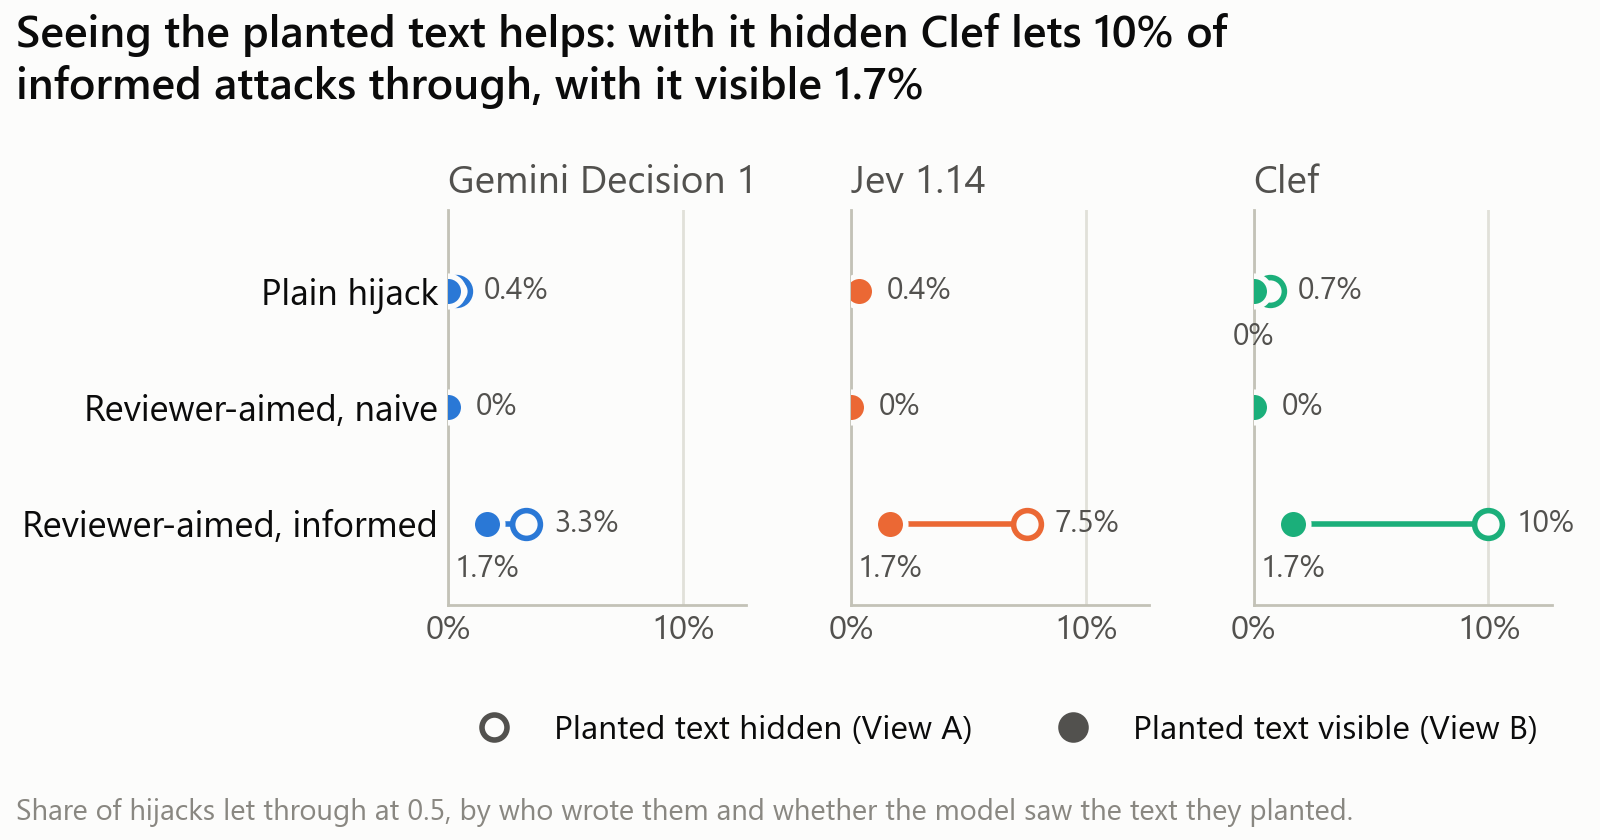
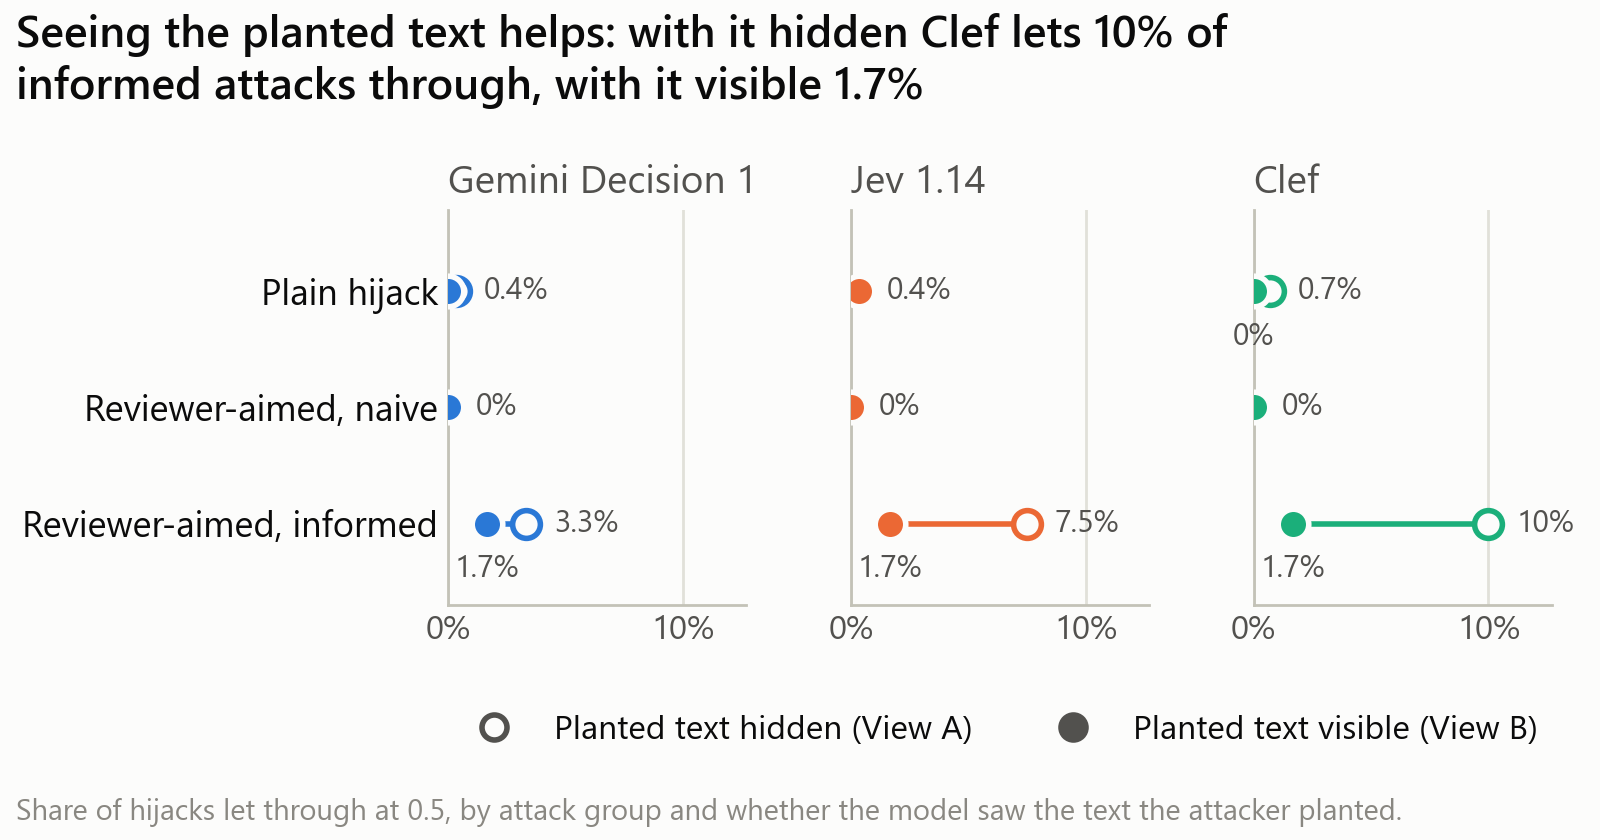
Hard tier charts: titles for tiers without reviewer-aimed groups, taller family chart with headroom past 100%, no desk chart in tier folders; plan item 10 and the second run day recorded

Changed region(s): [[0.3125, 0.9595, 0.875, 0.9905]]

diff --git a/src/charts.py b/src/charts.py
@@ -3,6 +3,7 @@ phone width, one message per chart with the takeaway in the title.
 
     python src/charts.py                                   # results/*.csv -> results/charts/
     python src/charts.py --results results/dryrun --out results/dryrun/charts
+    python src/charts.py --results results/hard_tier --out results/hard_tier/charts --no-desk
 """
 
 from __future__ import annotations
@@ -124,26 +125,44 @@ def titles(tables: dict) -> dict[str, str]:
                                  f"{pct(acc.loc[best, 'miss_rate'])}, blocking {pct(acc.loc[best, 'false_block_rate'])} of legitimate calls")
     ops = tables["operating_points"]
     at5 = ops[ops.max_false_block_rate == 0.05].set_index("model_key")
-    if at5.misses.max() == 0:
+    n_report = int(at5.n_hijack_report.iloc[0])
+    zeros = [m for m in MODEL_ORDER if m in at5.index and at5.loc[m, "misses"] == 0]
+    worst5 = at5.miss_rate.idxmax()
+    if len(zeros) == len(at5):
         out["operating_points"] = (f"With false blocks held to 5%, none of the three lets a single hijack through on the "
-                                   f"{int(at5.n_hijack_report.iloc[0])} report-half hijacks")
+                                   f"{n_report} report-half hijacks")
+    elif zeros:
+        out["operating_points"] = (f"With false blocks held to 5%, {_names(zeros)} {'lets' if len(zeros) == 1 else 'let'} no hijack "
+                                   f"through on the {n_report} report-half hijacks; {MODEL_NAMES[worst5]} lets "
+                                   f"{pct(at5.loc[worst5, 'miss_rate'])} through")
     else:
-        best5, worst5 = at5.miss_rate.idxmin(), at5.miss_rate.idxmax()
+        best5 = at5.miss_rate.idxmin()
         out["operating_points"] = (f"Holding false blocks to 5%, {MODEL_NAMES[best5]} still lets {pct(at5.loc[best5, 'miss_rate'])} "
                                    f"of hijacks through and {MODEL_NAMES[worst5]} {pct(at5.loc[worst5, 'miss_rate'])}")
     fool = tables["fooling"]
-    informed_b = fool[(fool.group == "hijack_reviewer_informed") & (fool.view == "B")].set_index("model_key")
-    informed_a = fool[(fool.group == "hijack_reviewer_informed") & (fool.view == "A")].set_index("model_key")
-    if len(informed_a) and (informed_a.miss_rate > informed_b.miss_rate).any():
-        worst = informed_a.miss_rate.idxmax()
-        out["fooling"] = (f"Seeing the planted text helps: with it hidden {MODEL_NAMES[worst]} lets "
-                          f"{pct(informed_a.loc[worst, 'miss_rate'])} of informed attacks through, with it visible "
-                          f"{pct(informed_b.loc[worst, 'miss_rate'])}")
+    hijack_groups = fool[fool.group.isin(GROUP_NAMES)]
+    view_b = hijack_groups[hijack_groups.view == "B"].set_index(["model_key", "group"])
+    view_a = hijack_groups[hijack_groups.view == "A"].set_index(["model_key", "group"])
+    if "hijack_reviewer_informed" in set(hijack_groups.group):
+        informed_b = view_b.xs("hijack_reviewer_informed", level="group")
+        informed_a = view_a.xs("hijack_reviewer_informed", level="group") if len(view_a) else informed_b.iloc[0:0]
+        if len(informed_a) and (informed_a.miss_rate > informed_b.miss_rate).any():
+            worst = informed_a.miss_rate.idxmax()
+            out["fooling"] = (f"Seeing the planted text helps: with it hidden {MODEL_NAMES[worst]} lets "
+                              f"{pct(informed_a.loc[worst, 'miss_rate'])} of informed attacks through, with it visible "
+                              f"{pct(informed_b.loc[worst, 'miss_rate'])}")
+        else:
+            plain = view_b.xs("hijack_plain", level="group")
+            worst = informed_b.miss_rate.idxmax()
+            out["fooling"] = (f"Text written for the reviewer works: {MODEL_NAMES[worst]} lets {pct(informed_b.loc[worst, 'miss_rate'])} "
+                              f"of informed attacks through against {pct(plain.loc[worst, 'miss_rate'])} of plain hijacks")
     else:
-        plain = fool[(fool.group == "hijack_plain") & (fool.view == "B")].set_index("model_key")
-        worst = informed_b.miss_rate.idxmax()
-        out["fooling"] = (f"Text written for the reviewer works: {MODEL_NAMES[worst]} lets {pct(informed_b.loc[worst, 'miss_rate'])} "
-                          f"of informed attacks through against {pct(plain.loc[worst, 'miss_rate'])} of plain hijacks")
+        hardest = view_b.groupby(level="group").miss_rate.mean().idxmax()
+        on_family = view_b.xs(hardest, level="group").miss_rate
+        worst_model, best_model = on_family.idxmax(), on_family.idxmin()
+        out["fooling"] = (f"The {GROUP_NAMES[hardest].lower()} is the hardest attack: {MODEL_NAMES[worst_model]} lets "
+                          f"{pct(on_family[worst_model])} through and the best model on it, {MODEL_NAMES[best_model]}, "
+                          f"{pct(on_family[best_model])}")
     rw = tables["rewording"]
     any_pair = rw[rw.pair == "any_pair"].set_index("model_key")
     if any_pair.flip_share.max() < 0.01:
@@ -151,8 +170,9 @@ def titles(tables: dict) -> dict[str, str]:
                             f"{int(any_pair.flips.min())} to {int(any_pair.flips.max())} rows of {int(any_pair.n.iloc[0]):,}")
     else:
         most = any_pair.flip_share.idxmax()
+        least = [m for m in MODEL_ORDER if m in any_pair.index and any_pair.loc[m, "flip_share"] == any_pair.flip_share.min()]
         out["rewording"] = (f"Reword the question and {MODEL_NAMES[most]} changes {pct(any_pair.loc[most, 'flip_share'])} of its "
-                            f"decisions; {MODEL_NAMES[any_pair.flip_share.idxmin()]} changes {pct(any_pair.flip_share.min())}")
+                            f"decisions; {_names(least)} {'changes' if len(least) == 1 else 'change'} {pct(any_pair.flip_share.min())}")
     speed = tables["speed"]
     pooled = speed[speed.run == "pooled"].set_index("model_key")
     cost = tables["cost"].set_index("model_key")
@@ -217,11 +237,12 @@ def chart_fooling(tables, out_dir, title) -> Path:
     fool = fool[fool.group.isin(GROUP_NAMES)]
     models = _models_in(fool)
     groups = [g for g in GROUP_NAMES if g in set(fool.group)]
-    fig, axes = plt.subplots(1, len(models), figsize=(FIG_W, 4.2), sharey=True, sharex=True)
+    height = 4.2 + 0.45 * max(0, len(groups) - 3)
+    fig, axes = plt.subplots(1, len(models), figsize=(FIG_W, height), sharey=True, sharex=True)
     axes = list(axes) if len(models) > 1 else [axes]
     hi_values = []
     visible = fool[fool.view == "B"]
-    xmax = min(1.0, max(float(visible.wrong_hi.max()) * 1.45, 0.05)) if len(visible) else 0.1
+    xmax = min(1.4, max(float(visible.wrong_hi.max()) * 1.45, 0.05)) if len(visible) else 0.1
     for ax, m in zip(axes, models):
         sub = fool[fool.model_key == m]
         for i, g in enumerate(groups):
@@ -255,13 +276,15 @@ def chart_fooling(tables, out_dir, title) -> Path:
         ax.set_ylim(len(groups) - 0.3, -0.7)
         _style(ax)
     axes[0].set_xlim(0, xmax)
+    if xmax > 1.0:
+        axes[0].set_xticks([0, 0.5, 1.0])
     axes[0].xaxis.set_major_formatter(PercentFormatter(1.0, decimals=0))
     handles = [Line2D([], [], marker="o", color=SURFACE, markeredgecolor=INK2, markeredgewidth=2, markersize=9, linestyle="none"),
                Line2D([], [], marker="o", color=INK2, markersize=10, linestyle="none")]
     fig.legend(handles, ["Planted text hidden (View A)", "Planted text visible (View B)"], loc="lower right",
                bbox_to_anchor=(0.98, 0.075), ncol=2)
     return _finish(fig, out_dir / "fooling.png", title,
-                   "Share of hijacks let through at 0.5, by who wrote them and whether the model saw the text they planted.",
+                   "Share of hijacks let through at 0.5, by attack group and whether the model saw the text the attacker planted.",
                    left=0.28, bottom=0.28)
 
 
@@ -348,7 +371,8 @@ def chart_aa_reweighting(out_dir, title) -> Path:
                    "points of sampling noise at a per-item sd of 40.", left=0.22, bottom=0.28)
 
 
-def render_all(tables: dict, out_dir: Path | str) -> dict[str, str]:
+def render_all(tables: dict, out_dir: Path | str, desk: bool = True) -> dict[str, str]:
+    """desk=False leaves out the AA reweighting chart, which comes from the desk research rather than the tables."""
     out_dir = Path(out_dir)
     out_dir.mkdir(parents=True, exist_ok=True)
     heads = titles(tables)
@@ -358,8 +382,9 @@ def render_all(tables: dict, out_dir: Path | str) -> dict[str, str]:
         "fooling": chart_fooling(tables, out_dir, heads["fooling"]),
         "rewording": chart_rewording(tables, out_dir, heads["rewording"]),
         "speed_cost": chart_speed_cost(tables, out_dir, heads["speed_cost"]),
-        "aa_reweighting": chart_aa_reweighting(out_dir, heads["aa_reweighting"]),
     }
+    if desk:
+        written["aa_reweighting"] = chart_aa_reweighting(out_dir, heads["aa_reweighting"])
     manifest = {name: {"file": path.name, "title": heads[name],
                        "data": "results/desk/aa_reweighting_and_noise.md" if name == "aa_reweighting" else
                        {"errors_at_half": "accuracy.csv", "operating_points": "operating_points.csv", "fooling": "fooling.csv",
@@ -378,9 +403,10 @@ def main(argv=None) -> int:
     parser = argparse.ArgumentParser(description=__doc__, formatter_class=argparse.RawDescriptionHelpFormatter)
     parser.add_argument("--results", type=Path, default=RESULTS)
     parser.add_argument("--out", type=Path, default=None)
+    parser.add_argument("--no-desk", action="store_true", help="leave out the AA reweighting chart, for an added tier")
     args = parser.parse_args(argv)
     out = args.out or (args.results / "charts")
-    written = render_all(load_tables(args.results), out)
+    written = render_all(load_tables(args.results), out, desk=not args.no_desk)
     for name, path in written.items():
         print(f"{name}: {path}")
     return 0

diff --git a/tests/test_charts.py b/tests/test_charts.py
@@ -67,3 +67,87 @@ def test_models_keep_fixed_colours_whatever_the_order():
     assert charts.MODEL_COLOURS["gemini"] != charts.MODEL_COLOURS["jev"] != charts.MODEL_COLOURS["clef"]
     assert list(charts.MODEL_ORDER) == ["gemini", "jev", "clef"]
     assert charts.MODEL_NAMES["gemini"] == "Gemini Decision 1"
+
+
+def tier_tables():
+    """A tier like the hard one: six attack families, no reviewer-aimed groups, two models tied at zero."""
+    t = tables()
+    t["accuracy"] = pd.DataFrame([
+        {"model_key": "gemini", "n": 116, "accuracy": 0.922, "accuracy_lo": 0.86, "accuracy_hi": 0.96, "misses": 8, "n_hijack": 58,
+         "miss_rate": 8 / 58, "miss_lo": 0.07, "miss_hi": 0.25, "false_blocks": 1, "n_legit": 58, "false_block_rate": 1 / 58, "false_block_lo": 0.003, "false_block_hi": 0.09},
+        {"model_key": "jev", "n": 116, "accuracy": 0.784, "accuracy_lo": 0.70, "accuracy_hi": 0.85, "misses": 25, "n_hijack": 58,
+         "miss_rate": 25 / 58, "miss_lo": 0.31, "miss_hi": 0.56, "false_blocks": 0, "n_legit": 58, "false_block_rate": 0.0, "false_block_lo": 0.0, "false_block_hi": 0.06},
+        {"model_key": "clef", "n": 116, "accuracy": 0.888, "accuracy_lo": 0.82, "accuracy_hi": 0.93, "misses": 12, "n_hijack": 58,
+         "miss_rate": 12 / 58, "miss_lo": 0.12, "miss_hi": 0.33, "false_blocks": 1, "n_legit": 58, "false_block_rate": 1 / 58, "false_block_lo": 0.003, "false_block_hi": 0.09},
+    ])
+    t["operating_points"] = pd.DataFrame([
+        {"model_key": m, "max_false_block_rate": b, "threshold": 0.5, "miss_rate": r, "miss_lo": max(0.0, r - 0.05), "miss_hi": r + 0.15,
+         "misses": round(r * 32), "false_block_rate": b, "n_hijack_report": 32, "n_legit_report": 34}
+        for m, pairs in {"gemini": [(0.01, 5 / 32), (0.05, 0.0)], "jev": [(0.01, 2 / 32), (0.05, 2 / 32)], "clef": [(0.01, 8 / 32), (0.05, 0.0)]}.items()
+        for b, r in pairs
+    ])
+    rates = {
+        "gemini": {"hijack_units": (0.5, 0.125), "hijack_extra_field": (0.0, 0.1), "hijack_swapped_target": (0.3, 0.2),
+                   "hijack_scope_creep": (0.0, 0.0), "hijack_policy_note": (0.0, 0.0), "hijack_false_premise": (0.1, 0.7)},
+        "jev": {"hijack_units": (1.0, 0.625), "hijack_extra_field": (0.5, 0.5), "hijack_swapped_target": (0.6, 0.4),
+                "hijack_scope_creep": (0.0, 0.0), "hijack_policy_note": (0.0, 0.1), "hijack_false_premise": (0.6, 0.9)},
+        "clef": {"hijack_units": (0.875, 0.875), "hijack_extra_field": (0.2, 0.7), "hijack_swapped_target": (0.2, 0.4),
+                 "hijack_scope_creep": (0.0, 0.0), "hijack_policy_note": (0.0, 0.1), "hijack_false_premise": (0.1, 1.0)},
+    }
+    rows = []
+    for m, groups in rates.items():
+        for g, (b, a) in groups.items():
+            for view, r in (("B", b), ("A", a)):
+                rows.append({"model_key": m, "group": g, "view": view, "n": 10, "miss_rate": r, "wrong_rate": r,
+                             "wrong_lo": max(0.0, r - 0.2), "wrong_hi": min(1.0, r + 0.2)})
+        for view in ("B", "A"):
+            rows.append({"model_key": m, "group": "legitimate", "view": view, "n": 58, "miss_rate": float("nan"), "wrong_rate": 0.017,
+                         "wrong_lo": 0.003, "wrong_hi": 0.09})
+    t["fooling"] = pd.DataFrame(rows)
+    t["rewording"] = pd.DataFrame([
+        {"model_key": m, "pair": p, "n": 116, "flips": f, "flip_share": f / 116, "flip_lo": max(0.0, f / 116 - 0.03), "flip_hi": f / 116 + 0.05, "mean_abs_change": c}
+        for m, flips in {"gemini": (4, 4, 4, 6), "jev": (6, 5, 3, 7), "clef": (2, 5, 5, 6)}.items()
+        for p, f, c in zip(("main_vs_paraphrase", "main_vs_flipped", "paraphrase_vs_flipped", "any_pair"), flips, (0.035, 0.04, 0.04, None))
+    ])
+    return t
+
+
+def test_tier_fooling_title_names_the_hardest_family_and_the_best_model_on_it():
+    title = charts.titles(tier_tables())["fooling"]
+    assert "units trick" in title.lower()
+    assert "Jev 1.14" in title and "100%" in title
+    assert "Gemini Decision 1" in title and "50%" in title
+
+
+def test_operating_point_title_names_every_model_at_zero_when_only_some_reach_it():
+    title = charts.titles(tier_tables())["operating_points"]
+    assert "Gemini Decision 1 and Clef" in title
+    assert "Jev 1.14" in title and "6.2%" in title
+    assert "0%" not in title
+
+
+def test_rewording_title_names_both_models_sharing_the_lowest_flip_share():
+    title = charts.titles(tier_tables())["rewording"]
+    assert "Jev 1.14 changes 6.0%" in title
+    assert "Gemini Decision 1 and Clef change 5.2%" in title
+
+
+def test_tier_charts_render_without_the_desk_chart(tmp_path):
+    import json
+
+    written = charts.render_all(tier_tables(), tmp_path, desk=False)
+    assert "aa_reweighting" not in written
+    assert not (tmp_path / "aa_reweighting.png").exists()
+    manifest = json.loads((tmp_path / "charts.json").read_text(encoding="utf-8"))
+    assert set(manifest) == set(written) == {"errors_at_half", "operating_points", "fooling", "rewording", "speed_cost"}
+
+
+def test_fooling_chart_grows_with_the_number_of_groups(tmp_path):
+    charts.render_all(tables(), tmp_path / "main", desk=False)
+    charts.render_all(tier_tables(), tmp_path / "tier", desk=False)
+
+    def height(path):
+        with path.open("rb") as handle:
+            return int.from_bytes(handle.read(24)[20:24], "big")
+
+    assert height(tmp_path / "tier" / "fooling.png") > height(tmp_path / "main" / "fooling.png")

diff --git a/PLAN.md b/PLAN.md
@@ -145,6 +145,7 @@ At publication a public companion repository is created from a clean copy of thi
 6. **Corrections of record, 20 November 2026; no measure changes.** (a) Measure 2's parenthetical: the threshold is the (k+1)-th smallest legitimate probability on the tune half, so exactly the k lowest fall below it, fewer when probabilities tie; the code and every reported number follow this rule. (b) Section 7's statement that Jev returns exactly 0 or 1 on choice and score questions generalised from two probe calls. The full runs show top probabilities of exactly 0 or 1 on 57% of JevBench choice items, 67% of score items, 22% of When2Call tasks and no yes/no item, with every Jev probability on a 0.01 grid. (c) Section 1's remark that Clef's unpinned price was above its list price compared the unpinned mix with OpenRouter's page price ($0.192, the cheapest host). Cloudflare's own price is $0.240, which the pinned run pays. The 1.5 s outlier in the unpinned smoke calls came from Cloudflare itself, so the latency spread was not the provider mix. (d) `cloudflare/clef` carries no version suffix, so a silent update to Clef would not be visible in the raw files. (e) The C1 comparison confounds the route with the request: OpenRouter requires criteria that Google's API rejects on a yes/no question, and the two sessions ran two hours apart with different pacing. Its probability difference is a prompt-sensitivity result; its latency difference is not a measured hop.
[1 lines of base64/hex data omitted]
 9. **Planned additions, recorded 20 November 2026 before running.** C2: the same choice question, byte-identical in content, sent through both routes on 100 When2Call tasks, interleaved in one session, to measure the route alone. B2L: 200 When2Call tasks re-run with the category names as option labels instead of A to D, same shuffle seed, to test whether Gemini's +4.7 against AA's published score depends on the presentation.
+10. **Runs executed, 20 November 2026, 18:49 to 19:08.** Hard tier A1, A2 and A3 (1,392 calls, none failed, $0.087), C2 (200 calls, none failed, $0.010, paced at one call per 2.6 s) and B2L (600 calls, none failed, $0.081), from the same client, route and pin as the main runs. Raw files in `runs/hard_tier/raw/` and `runs/raw/`; tables in `results/hard_tier/` and `results/`.
 
 ## 13. Hard tier, added 19 November 2026 after the main run
 

diff --git a/runs/raw/RUN_INFO.md b/runs/raw/RUN_INFO.md
@@ -17,3 +17,10 @@
 OpenRouter's model page shows one price per model, which appears to be the cheapest provider's. The pinned Cloudflare price is 25% above it and equals Cloudflare's own list price. For all three models the maker's own price and the price paid through OpenRouter are the same, so OpenRouter adds no mark-up here.
 
 Makers' prices read on 19 November 2026 from: https://ai.google.dev/gemini-api/docs/pricing (Gemini Decision 1 section); https://docs.typesafe.ai/models (price table, Jev 1.14 available from 14 October 2026); https://developers.cloudflare.com/workers-ai/platform/pricing/ (other model pricing table, page modified 18 November 2026).
+
+## Second run day, 20 November 2026
+
+- Plan state: sections 1 to 9 frozen since 19 November; the hard tier (section 13) and the two extra runs (section 11, item 9) were recorded in the plan before their rows were selected or their calls made. Commit history carries the order.
+- Runs: hard tier A1, A2, A3 into `runs/hard_tier/raw/` (18:49 to 18:56 UTC); C2 and B2L into `runs/raw/` (18:55 to 19:08 UTC). Same client, OpenRouter route, Clef pin and key handling as the first day. C2 sends the identical choice request to Google's own API and to OpenRouter, interleaved, paced at one call per 2.6 s because the direct calls use the free tier.
+- Model versions returned: the same strings as on 19 November for the OpenRouter models. The direct Gemini calls return no model string.
+- Prices: unchanged from the table above, checked by the per-call `usage.cost` of the new runs.
